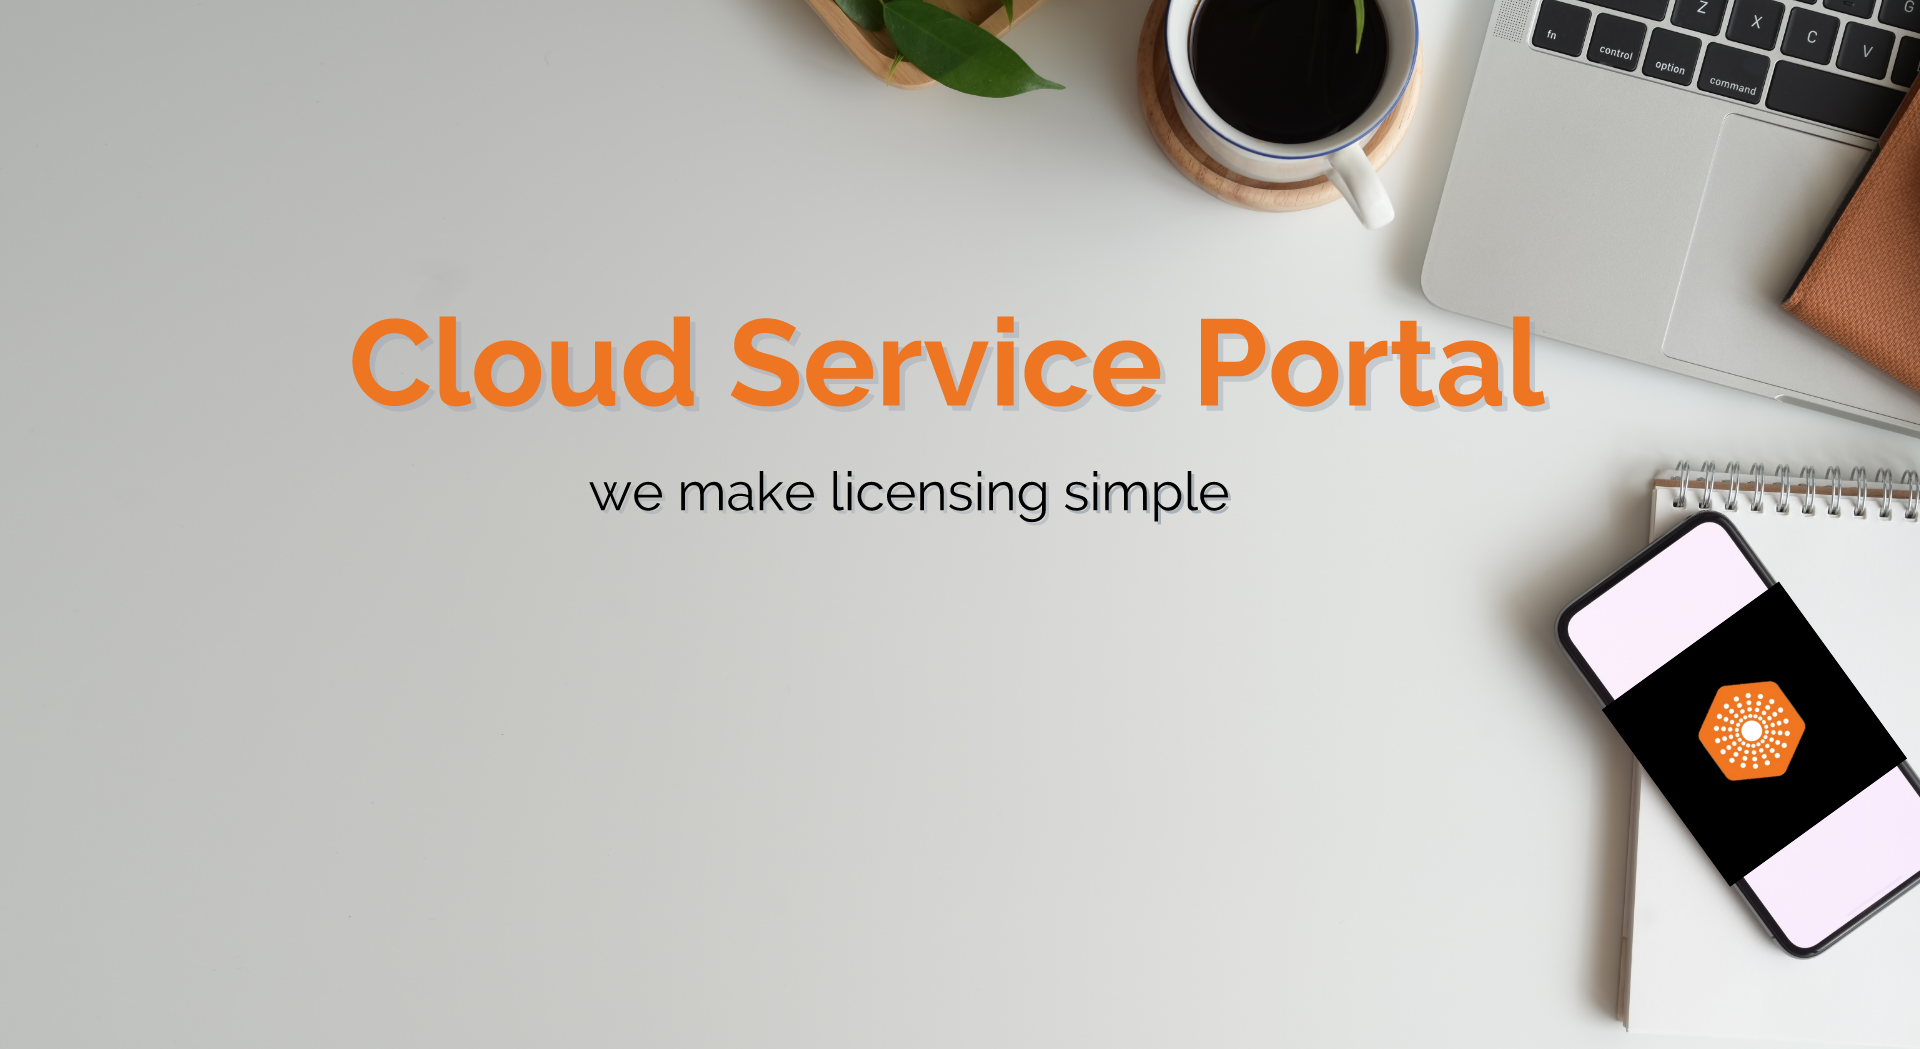
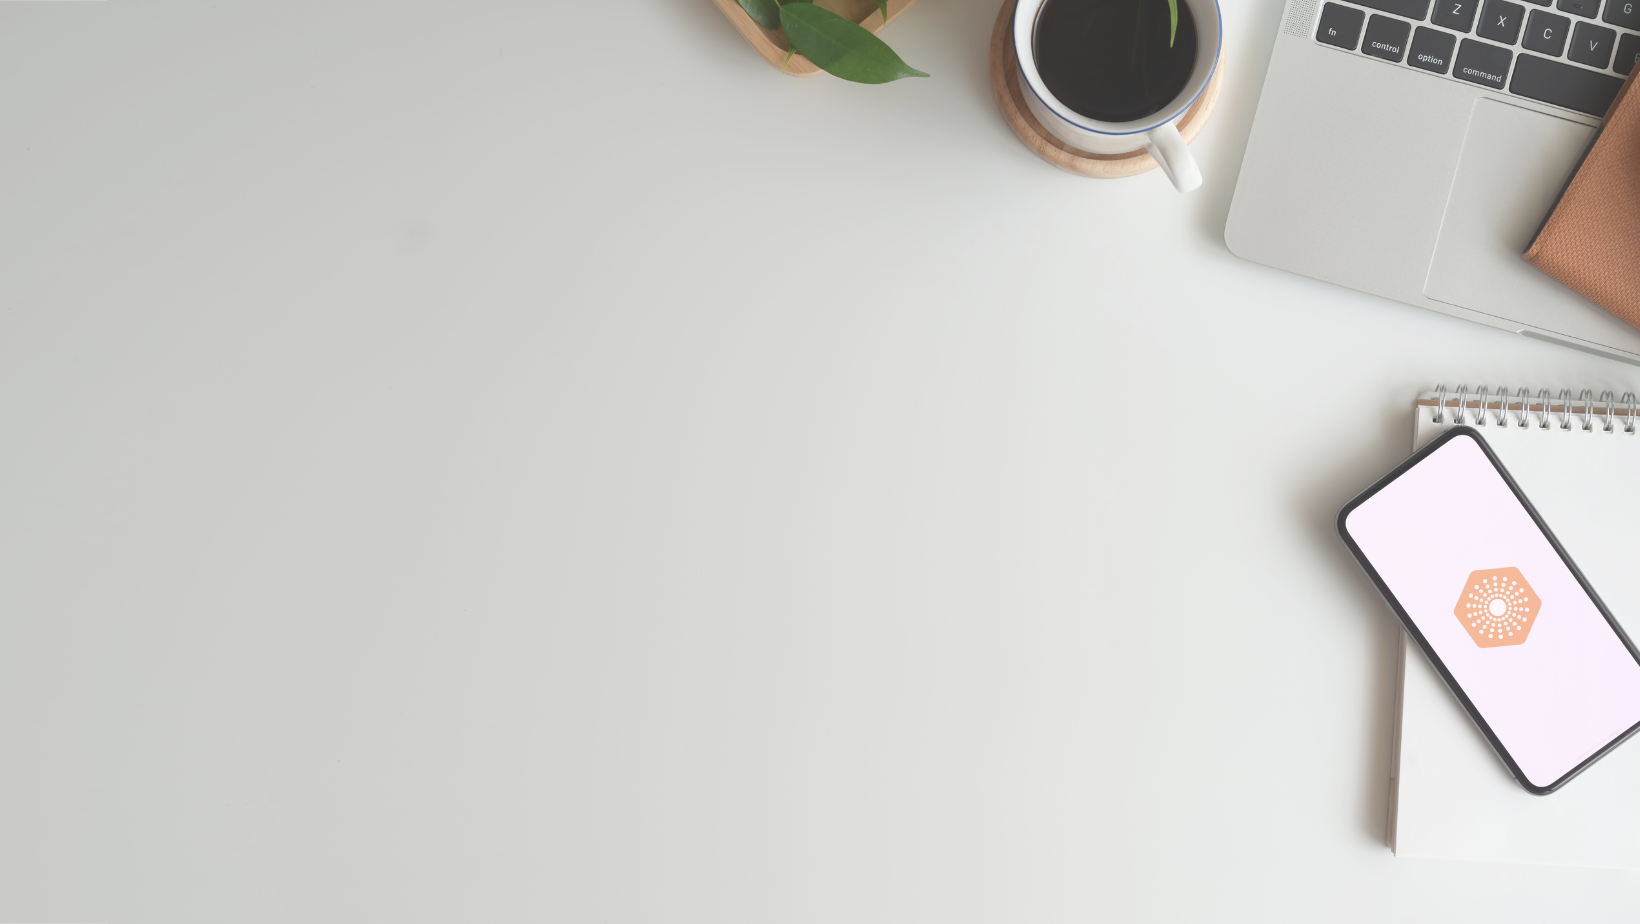
update

Changed region(s): [[0.1866, 0.0, 1.0, 1.0], [0.311, 0.4545, 0.653, 0.5152]]

diff --git a/src/app/components/BannerSlider/BannerSlider.scss b/src/app/components/BannerSlider/BannerSlider.scss
@@ -38,11 +38,30 @@
       left: 11.5%;
       top: 60%;
     }
+    
+    .slider-content{
+      position: absolute;
+      left: 7%;
+      top: 24%;
+      flex-direction: column;
+      h1{
+        color: #EE7623;
+        font-family: 'Raleway';
+        font-weight: 600;
+        text-shadow: 0 7px 5px rgb(0 0 0 / 05%);
+      }
+      h3{
+        font-family: 'Raleway';
+        letter-spacing: 2px;
+        font-weight: 300;
+      }
+    }
     .slider-btns{
       position: absolute;
       left: 11%;
       top: 50%;
     }
+    
     .rounded-box {
       border-radius: 50%;
       border: 1px solid #ffffff;
@@ -187,6 +206,7 @@
     .slider-slide {
       text-align: center;
       min-height: max-content;
+      
       .slider-btns {
         flex-direction: column;
         align-items: center;
@@ -297,6 +317,8 @@
     .slider-slide {
       text-align: center;
       min-height: max-content;
+
+      
       .slider-btns {
         button.slider-btn {
           width: max-content;
@@ -333,6 +355,37 @@
     }
     .slider-slide {
       text-align: center;
+
+       .slider-rounded{
+      left: 10.5%;
+      top: 62%;
+    }
+
+      .slider-content{
+      left: 5%;
+      top: 30%;
+      h1{
+        font-size: 5.5rem;
+      }
+      h3{
+       font-size: 2.5rem;
+      }
+    }
+    .slider-btns{
+      left: 9%;
+    }
+    }
+  }
+}
+
+@media (min-width: 1500px){
+  .slider {
+    
+    .slider-slide {
+      .slider-content{
+      left: 9%;
+    
+    }
     }
   }
 }

diff --git a/src/app/components/BannerSlider/BannerSlider.tsx b/src/app/components/BannerSlider/BannerSlider.tsx
@@ -19,7 +19,7 @@ import ChevronLeftIcon from "@mui/icons-material/ChevronLeft";
 import ChevronRightIcon from "@mui/icons-material/ChevronRight";
 import ListItem from "@mui/material/ListItem";
 import { Link } from "react-router-dom";
-import { Button, Box, Container } from "@mui/material";
+import { Button, Box, Container, Typography, Grid } from "@mui/material";
 const icons = [excel, cloud, e, azure, office, v, word, windows];
 const roundedIcon = [microsoft, roundAward, roundAzure];
 
@@ -41,6 +41,7 @@ const BannerSlider = () => {
 
   return (
     <div>
+
       <Slider className="slider" {...settings}>
         {[1, 2, 3].map((s) => (
           <div>
@@ -49,7 +50,13 @@ const BannerSlider = () => {
               style={{ backgroundImage: `url(${slidebg1})` }}
             >
 
-                <Box className="d-flex justify-content-center gap-15 mt-40 slider-btns">
+              
+              <Box className="d-flex justify-content-center align-items-center gap-15 slider-content">
+                <Typography variant={"h1"}>Cloud Service Portal</Typography>
+                <Typography variant={"h3"}>we make licensing simple</Typography>
+              </Box>
+              
+              <Box className="d-flex justify-content-center gap-15 mt-40 slider-btns">
                   <Button
                     className="btn-rounded btn-large slider-btn already-customer"
                     variant="contained"
